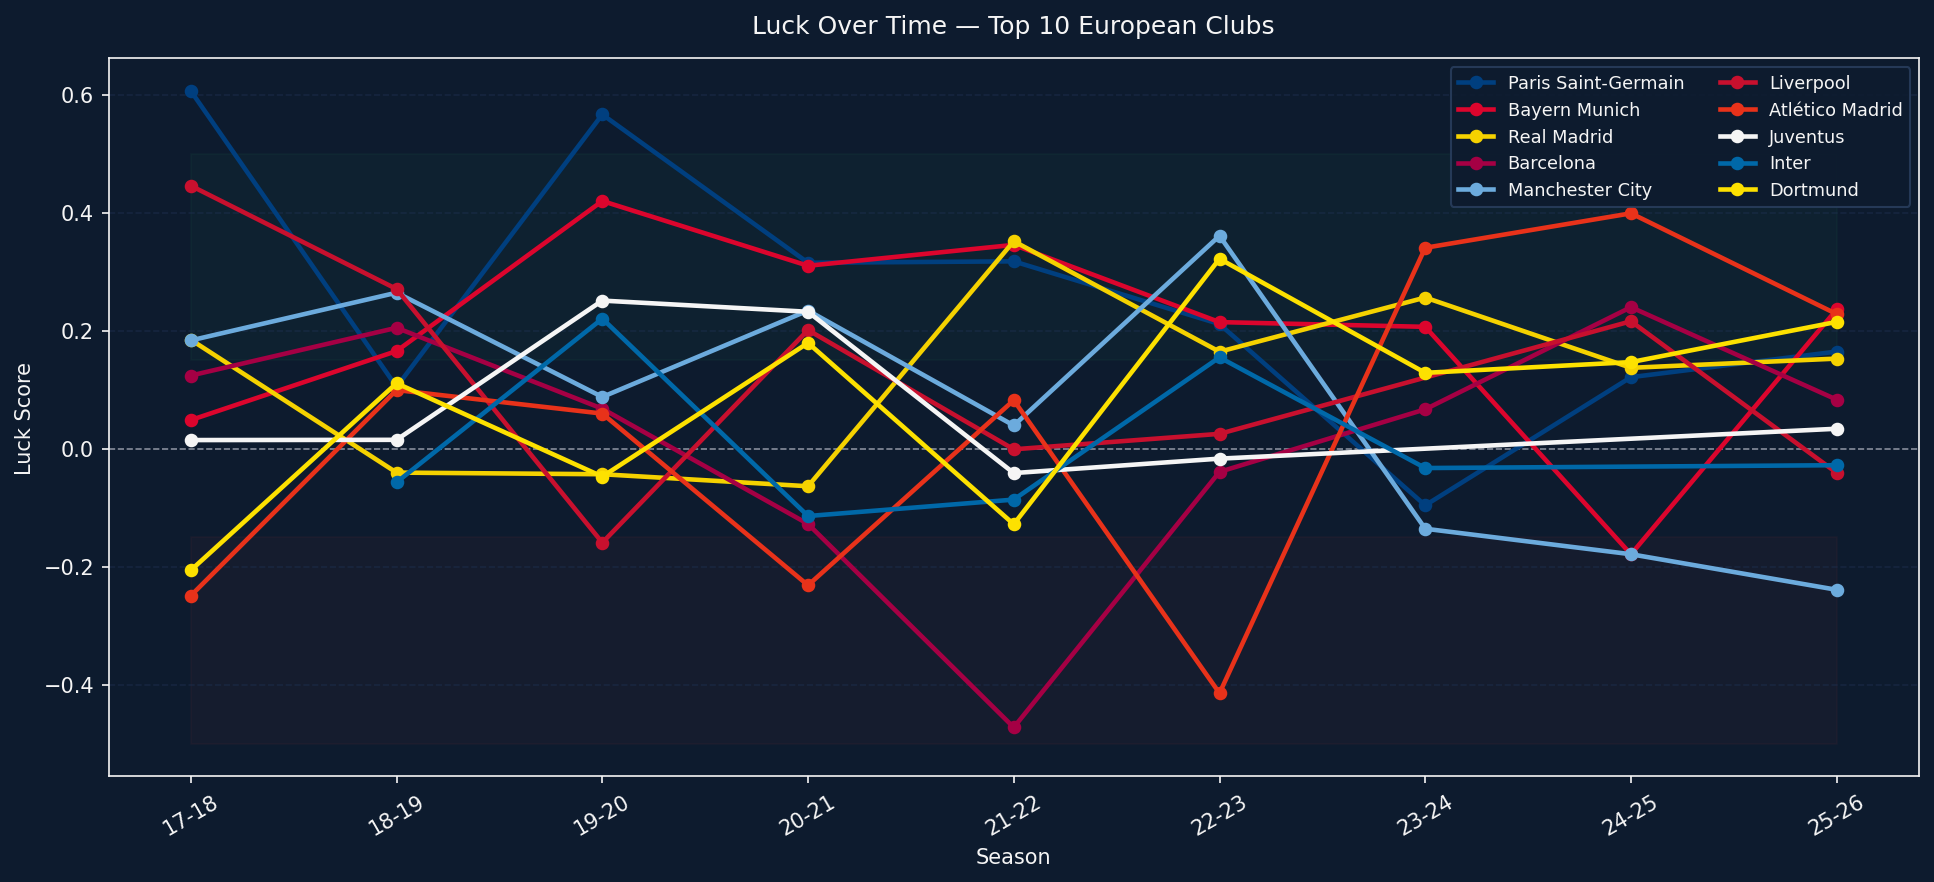
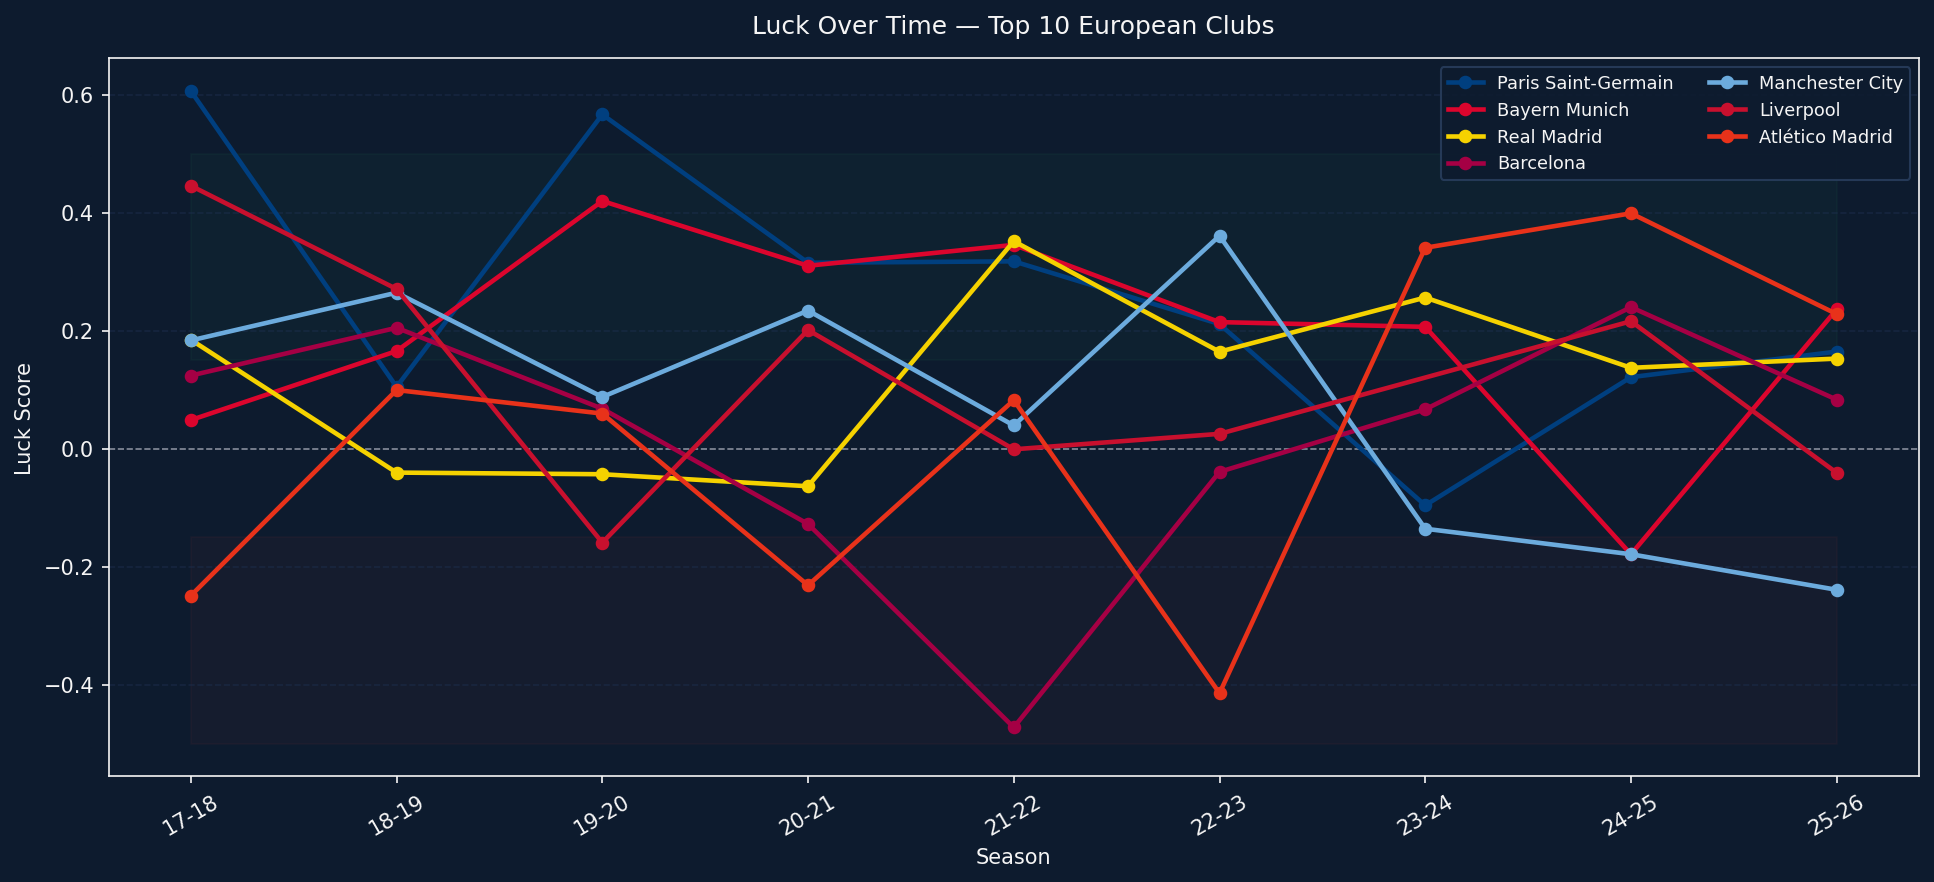
trim top clubs chart to 7 teams (remove Juventus, Inter, Dortmund)

diff --git a/src/luck_plots.py b/src/luck_plots.py
@@ -272,22 +272,15 @@ def plot_top10_luck_over_time(master: pd.DataFrame):
         "Manchester City",
         "Liverpool",
         "Atlético Madrid",
-        "Juventus",
-        "Inter",
-        "Dortmund",
     ]
-    # Rich, distinct palette for 10 lines
     TEAM_COLORS = {
         "Paris Saint-Germain": "#003f7f",   # deep blue
         "Bayern Munich":       "#dc052d",   # Bayern red
         "Real Madrid":         "#f5d200",   # gold
         "Barcelona":           "#a50044",   # Barça crimson
         "Manchester City":     "#6cabdd",   # sky blue
-        "Liverpool":           "#c8102e",   # Liverpool red (lighter)
+        "Liverpool":           "#c8102e",   # Liverpool red
         "Atlético Madrid":     "#e8321a",   # Atleti orange-red
-        "Juventus":            "#f5f5f5",   # white
-        "Inter":               "#0068a8",   # Inter blue
-        "Dortmund":            "#fde100",   # BVB yellow
     }
 
     all_seasons = sorted(master["season"].unique())
